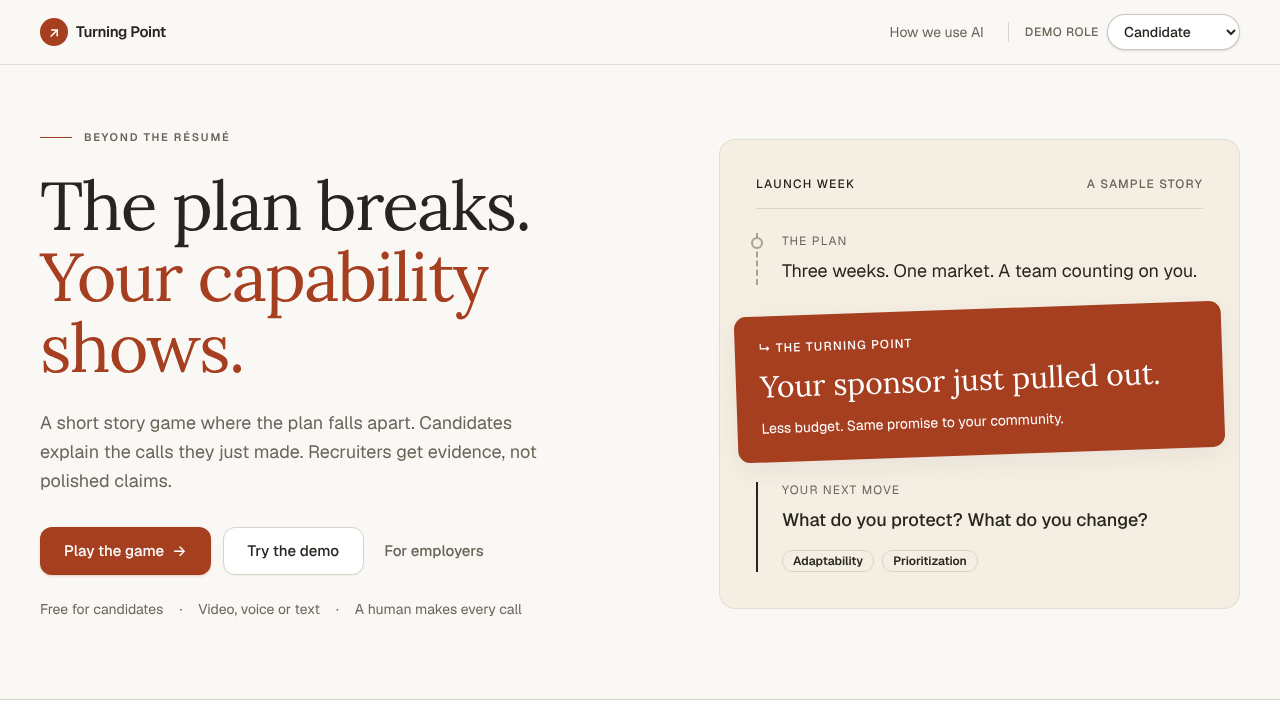
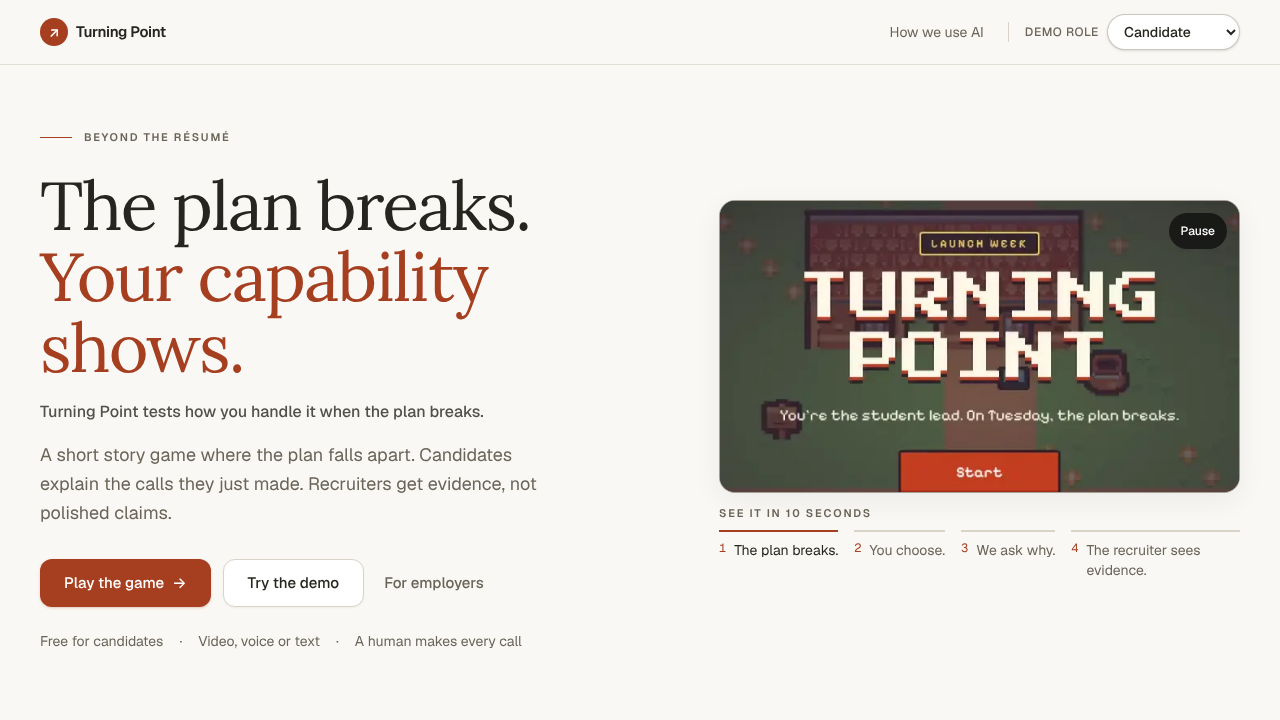
Judge 13:55: pitch line on the landing and the recruiter card, readable title still, 'start' for quotes at 0 s, real story Q and A on their own lines for the candidate
- 'Turning Point tests how you handle it when the plan breaks.' under the landing headline and at the foot of the recruiter card's right column (the card still fits 1440x900)
- Title still cropped to the centre so its text reads on a projector; preview step labels 1 to 3 never wrap
- Quote timestamps under 1 s read 'start' instead of 0:00
- Candidate results: the real-life answer and the follow-up question and answer show in full on separate lines; the recruiter card keeps the compact line
- e2e for each

Claude-Session: https://claude.ai/code/session_0154mYPVXzcvbqu6pAjhr8C7

diff --git a/components/card/CapabilityCard.tsx b/components/card/CapabilityCard.tsx
@@ -32,6 +32,8 @@ const LEVEL_STYLE: Record<Evidence["level"], string> = {
 const LEVEL_MARK: Record<Evidence["level"], string> = { strong: "●●", some: "●○", not_observed: "○○", needs_review: "?" };
 
 export const skillName = (slug: string) => SKILLS.find((s) => s.slug === slug)?.name ?? slug;
+/** "start" reads better than 0:00, which looks like a missing value. */
+const atLabel = (t: number) => (t < 1 ? "start" : mmss(t));
 const mmss = (t: number) => `${Math.floor(t / 60)}:${String(Math.floor(t % 60)).padStart(2, "0")}`;
 const KIND_LABEL = { decision: "Checkpoint", real_life: "Real life", follow_up: "Follow-up" } as const;
 const CONSISTENCY_LABEL = { order: "Order plan", explanation: "Explanation vs choice", story: "Real story vs follow-up" } as const;
@@ -58,6 +60,7 @@ export function CapabilityCard({
   resumeWeight,
   showFinalScore = true,
   audience = "employer",
+  footer,
 }: {
   card: Card;
   identity: CardIdentity;
@@ -73,6 +76,8 @@ export function CapabilityCard({
   showFinalScore?: boolean;
   /** Employers never see focus-loss or transcript-edit notes (it would read as proctoring); the candidate sees all. */
   audience?: "employer" | "candidate";
+  /** Extra content at the end of the right column (the recruiter's pitch line). */
+  footer?: React.ReactNode;
 }) {
   // Never render evidence that has not passed the quote check (G1, E3.8).
   const evidence = useMemo(() => verifyEvidence(card).evidence, [card]);
@@ -196,7 +201,7 @@ export function CapabilityCard({
                         <span aria-hidden className="mt-0.5 flex size-5 shrink-0 items-center justify-center rounded-full bg-primary text-[9px] text-primary-foreground transition-transform group-hover:scale-110">▶</span>
                         <span className="min-w-0 flex-1 text-foreground">
                           <span className="sr-only">Play </span>“{e.source.quote}”
-                          <span className="ml-1.5 font-mono text-xs text-muted-foreground">{mmss(e.source.startS)}</span>
+                          <span className="ml-1.5 font-mono text-xs text-muted-foreground">{atLabel(e.source.startS)}</span>
                         </span>
                       </button>
                     ) : (
@@ -217,13 +222,19 @@ export function CapabilityCard({
           <section aria-labelledby="rl-h" className="rounded-xl bg-story px-4 py-3" data-testid="real-story">
             <h2 id="rl-h" className="text-xs font-medium uppercase tracking-widest text-primary">Real turning point</h2>
             <p className="mt-1 font-display text-lg leading-snug">“{card.realStory.title}”</p>
-            {realLife?.transcript.text && <p className="mt-1 line-clamp-2 text-sm text-muted-foreground">{realLife.transcript.text}</p>}
-            {followUp && (
-              <p className="mt-1 line-clamp-1 text-sm">
-                <span className="font-medium">{followUp.question}</span>{" "}
-                <span className="text-muted-foreground">{followUp.transcript.text}</span>
-              </p>
-            )}
+            {realLife?.transcript.text && <p className={cn("mt-1 text-sm text-muted-foreground", audience === "employer" && "line-clamp-2")} data-testid="real-story-answer">{realLife.transcript.text}</p>}
+            {followUp &&
+              (audience === "candidate" ? (
+                <div className="mt-2 text-sm" data-testid="real-story-follow-up">
+                  <p className="font-medium">{followUp.question}</p>
+                  <p className="text-muted-foreground">{followUp.transcript.text}</p>
+                </div>
+              ) : (
+                // The recruiter's card keeps this to one line so the whole card fits a laptop screen.
+                <p className="mt-1 line-clamp-1 text-sm" data-testid="real-story-follow-up">
+                  <span className="font-medium">{followUp.question}</span> <span className="text-muted-foreground">{followUp.transcript.text}</span>
+                </p>
+              ))}
             <p className="mt-1 text-sm font-medium" data-testid="witness-line">
               {confirmed ?? "No witness confirmation yet"}
             </p>
@@ -240,7 +251,7 @@ export function CapabilityCard({
               <h2 id="clips-h" className="text-sm font-semibold">Answers</h2>
               {lastJump?.skill && (
                 <p key={lastJump.n} className="tp-pop rounded-full bg-accent px-2.5 py-0.5 text-xs font-medium text-accent-foreground" role="status" data-testid="jump-banner">
-                  ▶ {skillName(lastJump.skill)} quote at {mmss(lastJump.t)}
+                  ▶ {skillName(lastJump.skill)} quote at {atLabel(lastJump.t)}
                 </p>
               )}
             </div>
@@ -371,6 +382,7 @@ export function CapabilityCard({
             </ul>
           </section>
         )}
+        {footer}
       </div>
 
       <ResumeEvidence card={{ ...card, evidence }} onJump={jump} />

diff --git a/app/page.tsx b/app/page.tsx
@@ -15,7 +15,8 @@ export default function Home() {
         <div>
           <p className="flex items-center gap-3 text-[11px] font-semibold uppercase tracking-[0.16em] text-muted-foreground"><span className="h-px w-8 bg-primary" aria-hidden />Beyond the résumé</p>
           <h1 className="mt-6 max-w-2xl font-display text-[2.75rem] leading-[1.05] tracking-tight sm:text-6xl lg:text-[4.25rem]">The plan breaks. <span className="text-primary">Your capability shows.</span></h1>
-          <p className="mt-6 max-w-lg text-lg leading-relaxed text-muted-foreground">A short story game where the plan falls apart. Candidates explain the calls they just made. Recruiters get evidence, not polished claims.</p>
+          <p className="mt-4 text-base font-medium text-foreground/80" data-testid="pitch-line">Turning Point tests how you handle it when the plan breaks.</p>
+          <p className="mt-4 max-w-lg text-lg leading-relaxed text-muted-foreground">A short story game where the plan falls apart. Candidates explain the calls they just made. Recruiters get evidence, not polished claims.</p>
           <div className="mt-8 flex flex-wrap items-center gap-3">
             <Button asChild size="lg"><Link href="/game/launch-week" data-testid="play-game">Play the game <span aria-hidden>→</span></Link></Button>
             <Button asChild size="lg" variant="outline"><Link href="/candidate">Try the demo</Link></Button>

diff --git a/tests/e2e/recruiter.spec.ts b/tests/e2e/recruiter.spec.ts
@@ -245,3 +245,20 @@ test("long inbox pages by 20 with a visible count; Show more and J reveal the re
   for (let i = 0; i < 21; i++) await page.keyboard.press("j");
   expect(await rows.count()).toBeGreaterThan(20);
 });
+
+test("card: pitch line in the footer, a quote at 0 s reads 'start', real story shows question and answer on their own lines", async ({ page }) => {
+  await seed(page);
+  await page.goto(CARD);
+  await expect(page.getByTestId("pitch-line")).toHaveText("Turning Point tests how you handle it when the plan breaks.");
+  const ev = page.getByTestId("evidence");
+  await expect(ev).not.toContainText(/\b0:00\b/);
+  const starts = await page.locator('[data-testid^="jump-"]').allInnerTexts();
+  if (starts.some((t) => /start$/.test(t.trim()))) expect(starts.join(" ")).toMatch(/start/);
+  // On the candidate's own results the real-life answer and the follow-up are never clipped.
+  await page.goto(`/results/${MAYA}`);
+  const fu = page.getByTestId("real-story-follow-up");
+  await expect(fu.locator("p").first()).toHaveClass(/font-medium/);
+  const answer = page.getByTestId("real-story-answer");
+  await expect(answer).not.toHaveClass(/line-clamp/);
+  await expect(fu.locator("p").nth(1)).not.toHaveClass(/line-clamp/);
+});

diff --git a/components/site/HeroPreview.tsx b/components/site/HeroPreview.tsx
@@ -75,7 +75,7 @@ export function HeroPreview() {
       </div>
       <figcaption className="mt-3">
         <p className="text-[11px] font-semibold uppercase tracking-[0.16em] text-muted-foreground">See it in 10 seconds</p>
-        <ol className="mt-2 grid grid-cols-2 gap-x-4 gap-y-1 sm:grid-cols-4">
+        <ol className="mt-2 grid grid-cols-2 gap-x-4 gap-y-1 sm:grid-cols-[repeat(3,auto)_1fr]">
           {FRAMES.map((f, k) => (
             <li key={f.src}>
               <button
@@ -84,6 +84,7 @@ export function HeroPreview() {
                 aria-current={k === i ? "step" : undefined}
                 className={cn(
                   "flex w-full items-start gap-2 border-t-2 pt-2 text-left text-sm transition-colors",
+                  k < 3 && "sm:whitespace-nowrap",
                   k === i ? "border-primary text-foreground" : "border-border text-muted-foreground hover:text-foreground",
                 )}
               >

diff --git a/components/recruiter/RecruiterCard.tsx b/components/recruiter/RecruiterCard.tsx
@@ -138,6 +138,7 @@ export function RecruiterCard({ attemptId }: { attemptId: string }) {
           reused={share?.reused ? { covers } : undefined}
           actions={actions}
           seekTo={seekTo}
+          footer={<p className="pt-1 text-center text-xs text-muted-foreground" data-testid="pitch-line">Turning Point tests how you handle it when the plan breaks.</p>}
         />
       </div>
       {share?.reused && challenge && <AddonRequest attemptId={attemptId} challengeId={challengeId} employerSkills={challenge.targetSkills as SkillSlug[]} cardSkills={view.card.targetSkills} />}

diff --git a/tests/e2e/landing.spec.ts b/tests/e2e/landing.spec.ts
@@ -81,3 +81,8 @@ test("landing preview does not move under reduced motion", async ({ page }) => {
   await page.waitForTimeout(3500);
   await expect(frame).toHaveAttribute("alt", /title screen/);
 });
+
+test("landing states the pitch line under the headline", async ({ page }) => {
+  await page.goto("/");
+  await expect(page.getByTestId("pitch-line")).toHaveText("Turning Point tests how you handle it when the plan breaks.");
+});

diff --git a/scripts/landing-stills.py b/scripts/landing-stills.py
@@ -8,7 +8,12 @@ dst = Path("public/landing")
 dst.mkdir(parents=True, exist_ok=True)
 total = 0
 for p in sorted(src.glob("*.png")):
-    im = Image.open(p).convert("RGB").resize((800, 450), Image.LANCZOS)
+    im = Image.open(p).convert("RGB")
+    # The title screen's small pixel text is unreadable when scaled down; crop to the centre first.
+    if p.stem.startswith("1-title"):
+        w, h = im.size
+        im = im.crop((w // 4, h // 6, w * 3 // 4, h // 6 + h // 2))
+    im = im.resize((800, 450), Image.LANCZOS)
     out = dst / (p.stem + ".webp")
     im.save(out, "WEBP", quality=72, method=6)
     total += out.stat().st_size
